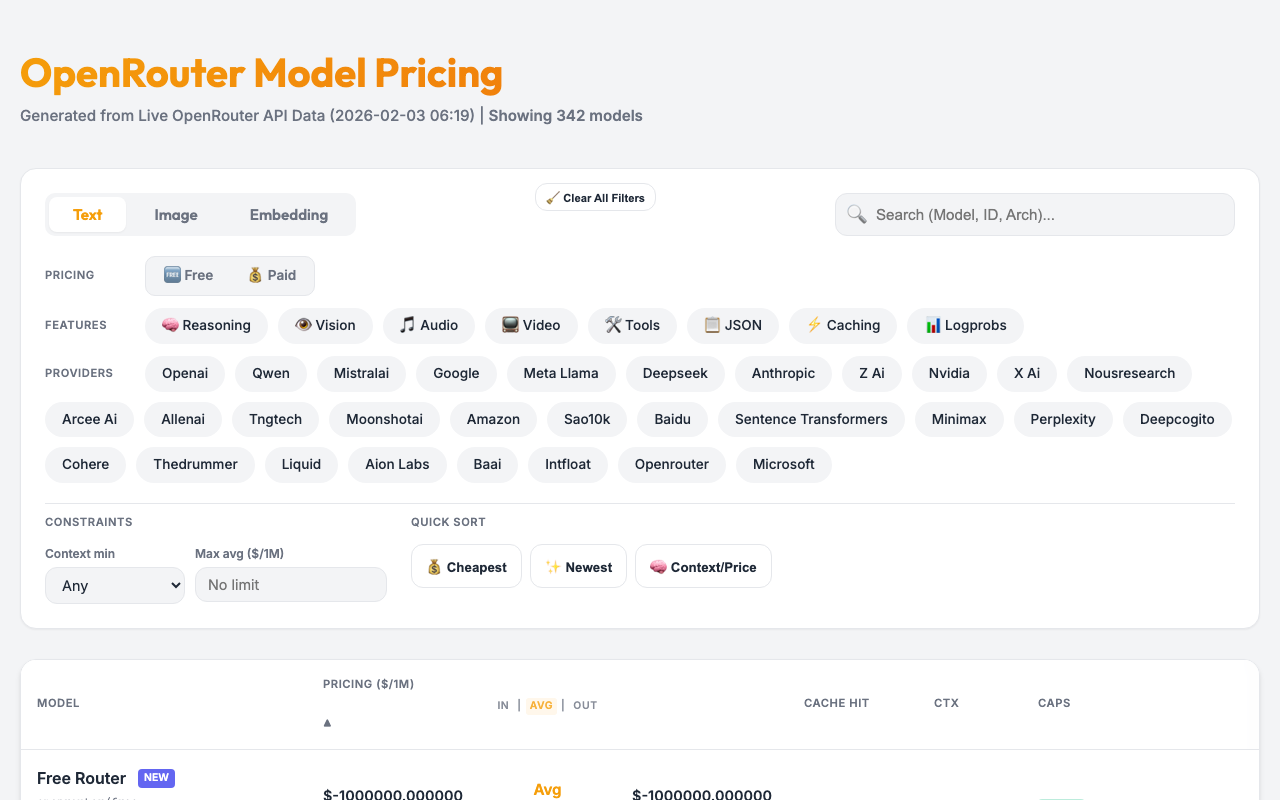
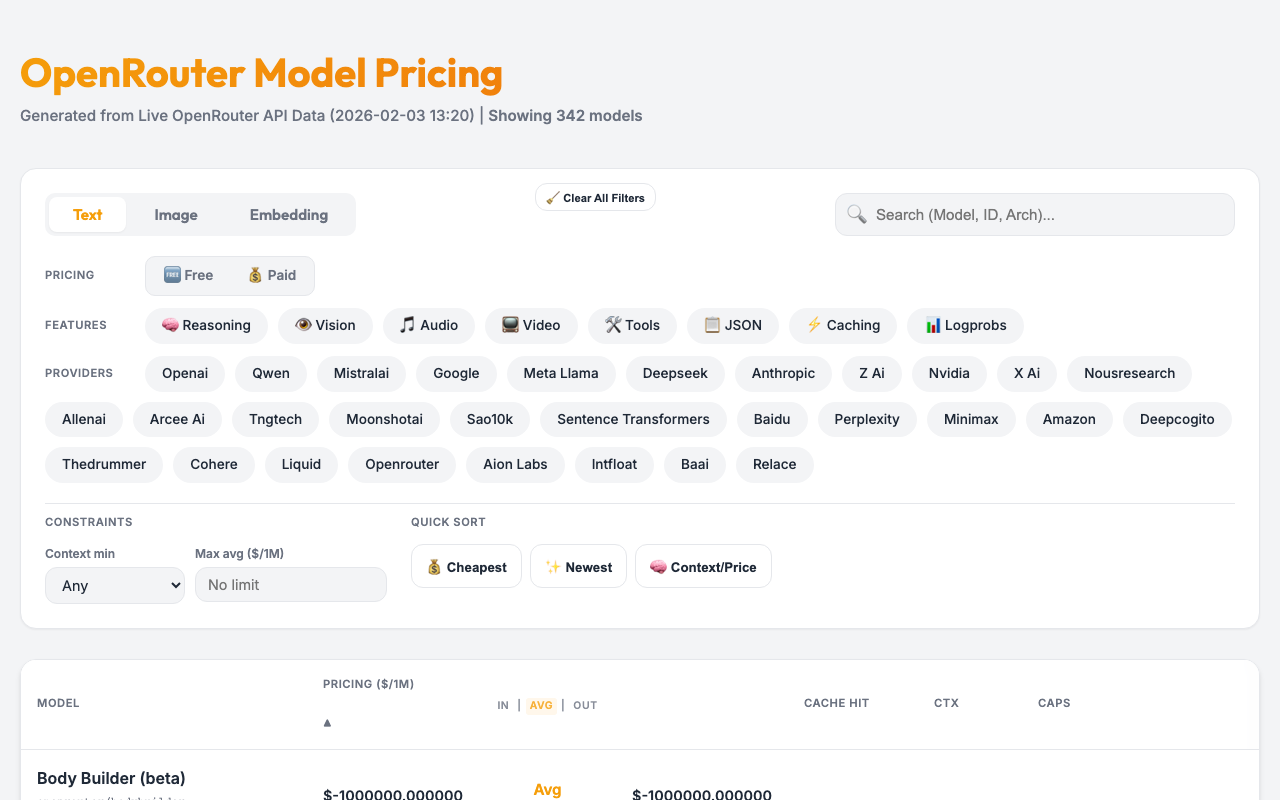
chore: automated pricing update (2026-02-03 13:20:01)
🔄 Changed Models (2): openrouter/auto, openrouter/free

diff --git a/docs/index.html b/docs/index.html
@@ -634,7 +634,7 @@
     <div class="container">
         <header>
             <h1>OpenRouter Model Pricing</h1>
-            <div class="meta">Generated from Live OpenRouter API Data (2026-02-03 06:19)</div>
+            <div class="meta">Generated from Live OpenRouter API Data (2026-02-03 13:20)</div>
         </header>
 
         <div class="controls">
@@ -704,7 +704,7 @@
       "id": "openrouter/free",
       "canonical_slug": "openrouter/free",
       "hugging_face_id": "",
-      "name": "Free Router",
+      "name": "Free Models Router",
       "created": 1769917427,
       "description": "The simplest way to get free inference. openrouter/free is a router that selects free models at random from the models available on OpenRouter. The router smartly filters for models that support features needed for your request such as image understanding, tool calling, structured outputs and more. ",
       "context_length": 200000,
@@ -721,8 +721,8 @@
         "instruct_type": null
       },
       "pricing": {
-        "prompt": "-1",
-        "completion": "-1"
+        "prompt": "0",
+        "completion": "0"
       },
       "top_provider": {
         "context_length": null,
@@ -730,7 +730,25 @@
         "is_moderated": false
       },
       "per_request_limits": null,
-      "supported_parameters": [],
+      "supported_parameters": [
+        "frequency_penalty",
+        "include_reasoning",
+        "logit_bias",
+        "max_tokens",
+        "min_p",
+        "presence_penalty",
+        "reasoning",
+        "repetition_penalty",
+        "response_format",
+        "seed",
+        "stop",
+        "structured_outputs",
+        "temperature",
+        "tool_choice",
+        "tools",
+        "top_k",
+        "top_p"
+      ],
       "default_parameters": {
         "temperature": null,
         "top_p": null,
@@ -17514,7 +17532,29 @@
         "is_moderated": false
       },
       "per_request_limits": null,
-      "supported_parameters": [],
+      "supported_parameters": [
+        "frequency_penalty",
+        "include_reasoning",
+        "logit_bias",
+        "logprobs",
+        "max_tokens",
+        "min_p",
+        "presence_penalty",
+        "reasoning",
+        "reasoning_effort",
+        "repetition_penalty",
+        "response_format",
+        "seed",
+        "stop",
+        "structured_outputs",
+        "temperature",
+        "tool_choice",
+        "tools",
+        "top_k",
+        "top_logprobs",
+        "top_p",
+        "web_search_options"
+      ],
       "default_parameters": {
         "temperature": null,
         "top_p": null,
@@ -18560,7 +18600,7 @@
   ],
   "other": []
 };
-        window.providerOptions = ['openai', 'qwen', 'mistralai', 'google', 'meta-llama', 'deepseek', 'anthropic', 'z-ai', 'nvidia', 'x-ai', 'nousresearch', 'arcee-ai', 'allenai', 'tngtech', 'moonshotai', 'amazon', 'sao10k', 'baidu', 'sentence-transformers', 'minimax', 'perplexity', 'deepcogito', 'cohere', 'thedrummer', 'liquid', 'aion-labs', 'baai', 'intfloat', 'openrouter', 'microsoft', 'relace', 'inflection', 'morph', 'neversleep', 'bytedance-seed', 'inception', 'thenlper', 'ai21', 'gryphe', 'cognitivecomputations', 'anthracite-org', 'switchpoint', 'stepfun-ai', 'bytedance', 'undi95', 'tencent', 'alibaba', 'upstage', 'alfredpros', 'opengvlab', 'eleutherai', 'writer', 'xiaomi', 'essentialai', 'prime-intellect', 'stepfun', 'ibm-granite', 'kwaipilot', 'alpindale', 'meituan', 'raifle', 'nex-agi', 'mancer'];
+        window.providerOptions = ['openai', 'qwen', 'mistralai', 'google', 'meta-llama', 'deepseek', 'anthropic', 'z-ai', 'nvidia', 'x-ai', 'nousresearch', 'allenai', 'arcee-ai', 'tngtech', 'moonshotai', 'sao10k', 'sentence-transformers', 'baidu', 'perplexity', 'minimax', 'amazon', 'deepcogito', 'thedrummer', 'cohere', 'liquid', 'openrouter', 'aion-labs', 'intfloat', 'baai', 'relace', 'neversleep', 'ai21', 'morph', 'inception', 'inflection', 'microsoft', 'bytedance-seed', 'thenlper', 'stepfun', 'meituan', 'opengvlab', 'xiaomi', 'undi95', 'anthracite-org', 'alpindale', 'mancer', 'prime-intellect', 'upstage', 'writer', 'alibaba', 'ibm-granite', 'gryphe', 'switchpoint', 'raifle', 'bytedance', 'kwaipilot', 'stepfun-ai', 'eleutherai', 'cognitivecomputations', 'essentialai', 'alfredpros', 'nex-agi', 'tencent'];
         let currentTab = 'text';
         let sortKey = 'price_avg';
         let sortAsc = true;
